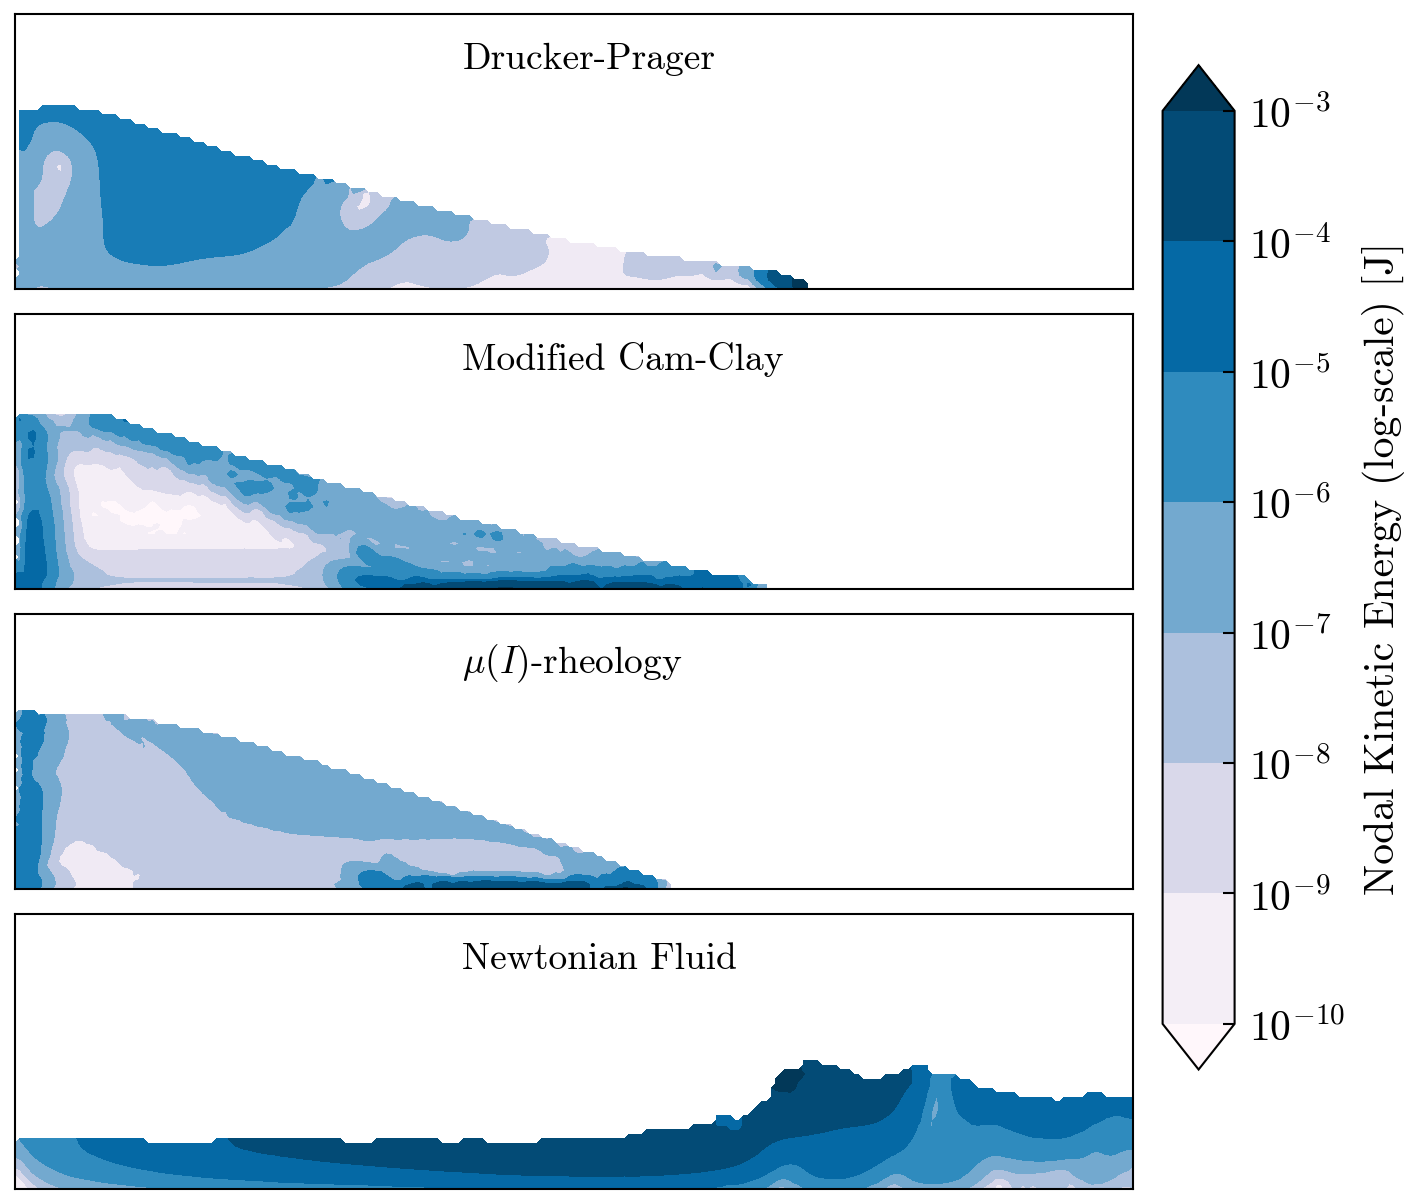
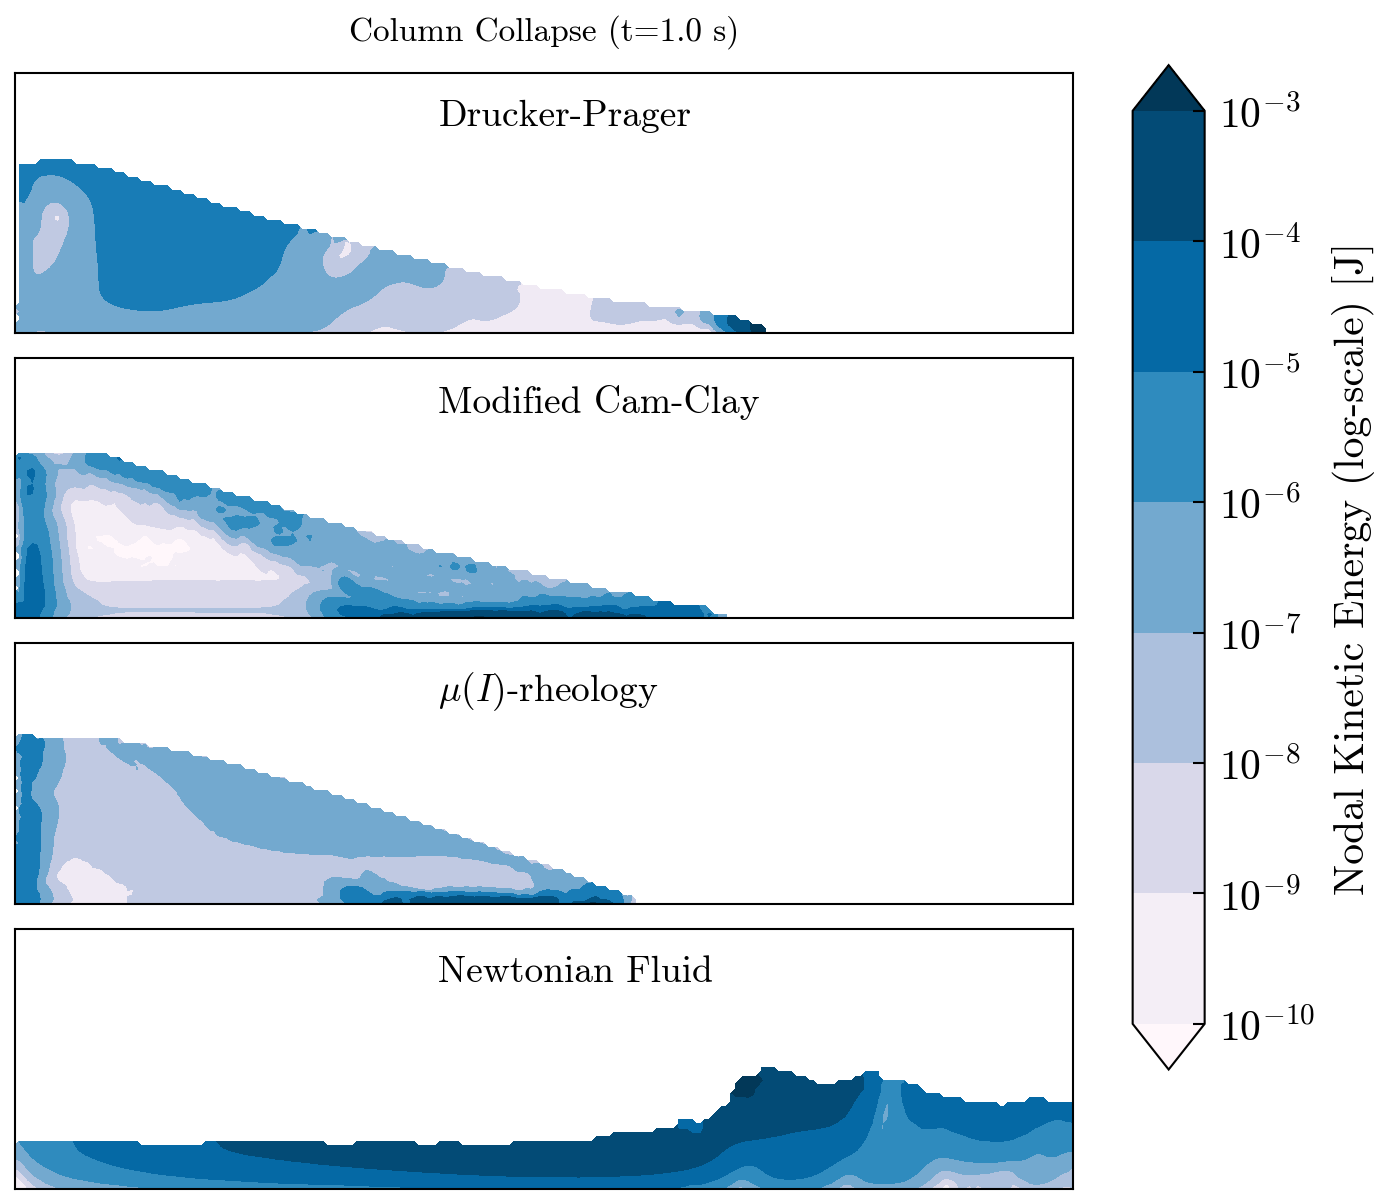
Update readme plots

diff --git a/examples/model_showcase/sip_animate.py b/examples/model_showcase/sip_animate.py
@@ -217,8 +217,8 @@ axes[1].set(
     yticks=[0.0, 0.1, 0.2, 0.3, 0.4],
 )
 axes[2].set(
-    xlabel="q [Pa]",
-    ylabel="$p$ [Pa]",
+    xlabel="$q$ [Pa]",
+    ylabel="$q$ [Pa]",
     xlim=(0, 2000),
     ylim=(-50, 2000),
     xticks=[0, 500, 1000, 1500, 2000],
@@ -307,7 +307,7 @@ def animate(i):
 def set_plot_colors(fig, axes, legend, color):
     """Sets color for text elements: labels, ticks, legend."""
     print(f"Setting plot element colors to: {color}")
-
+    fig.suptitle('Constant Pressure Shear', fontsize=14,color=color)
     # Set legend text color
     if legend:
         for text in legend.get_texts():
@@ -330,7 +330,6 @@ def set_plot_colors(fig, axes, legend, color):
         # Optional: Axis title if exists
         # ax.title.set_color(color)
 
-
 # Create animation
 ani = FuncAnimation(
     fig,
@@ -339,7 +338,6 @@ ani = FuncAnimation(
     interval=50,
     repeat=True,
 )
-
 
 # Save or show animation
 set_plot_colors(fig, axes, legend, "black")

diff --git a/examples/iacmag_2025/mpm_postprcess_plot_all_models.py b/examples/iacmag_2025/mpm_postprcess_plot_all_models.py
@@ -28,7 +28,7 @@ plot_dir = os.path.join(dir_path, "plots")  # plot directory
 
 plt.style.use(["science", "no-latex"])
 
-is_tranparent = False
+is_tranparent = True
 
 COLOR = "black"
 mpl.rcParams["text.color"] = COLOR
@@ -101,7 +101,7 @@ models = [
     "Newtonian Fluid",
 ]
 
-plot_scalar = "KE"
+plot_scalar = "shear_strain"
 if plot_scalar == "KE":
     leg_label = "Nodal Kinetic Energy (log-scale) [J]"
     file_suffix = "KE"
@@ -170,7 +170,6 @@ cax = fig.add_axes(
 )
 
 # Create colorbar
-
 if logscale:
     cbar = fig.colorbar(
         cp,
@@ -187,6 +186,8 @@ else:
     )
 cbar.ax.set_ylabel(leg_label)
 
+
+fig.suptitle('Column Collapse (t=1.0 s)', fontsize=8)
 plt.savefig(
     plot_dir + f"/mpm_plot_contour_{file_suffix}.png", transparent=is_tranparent
 )
